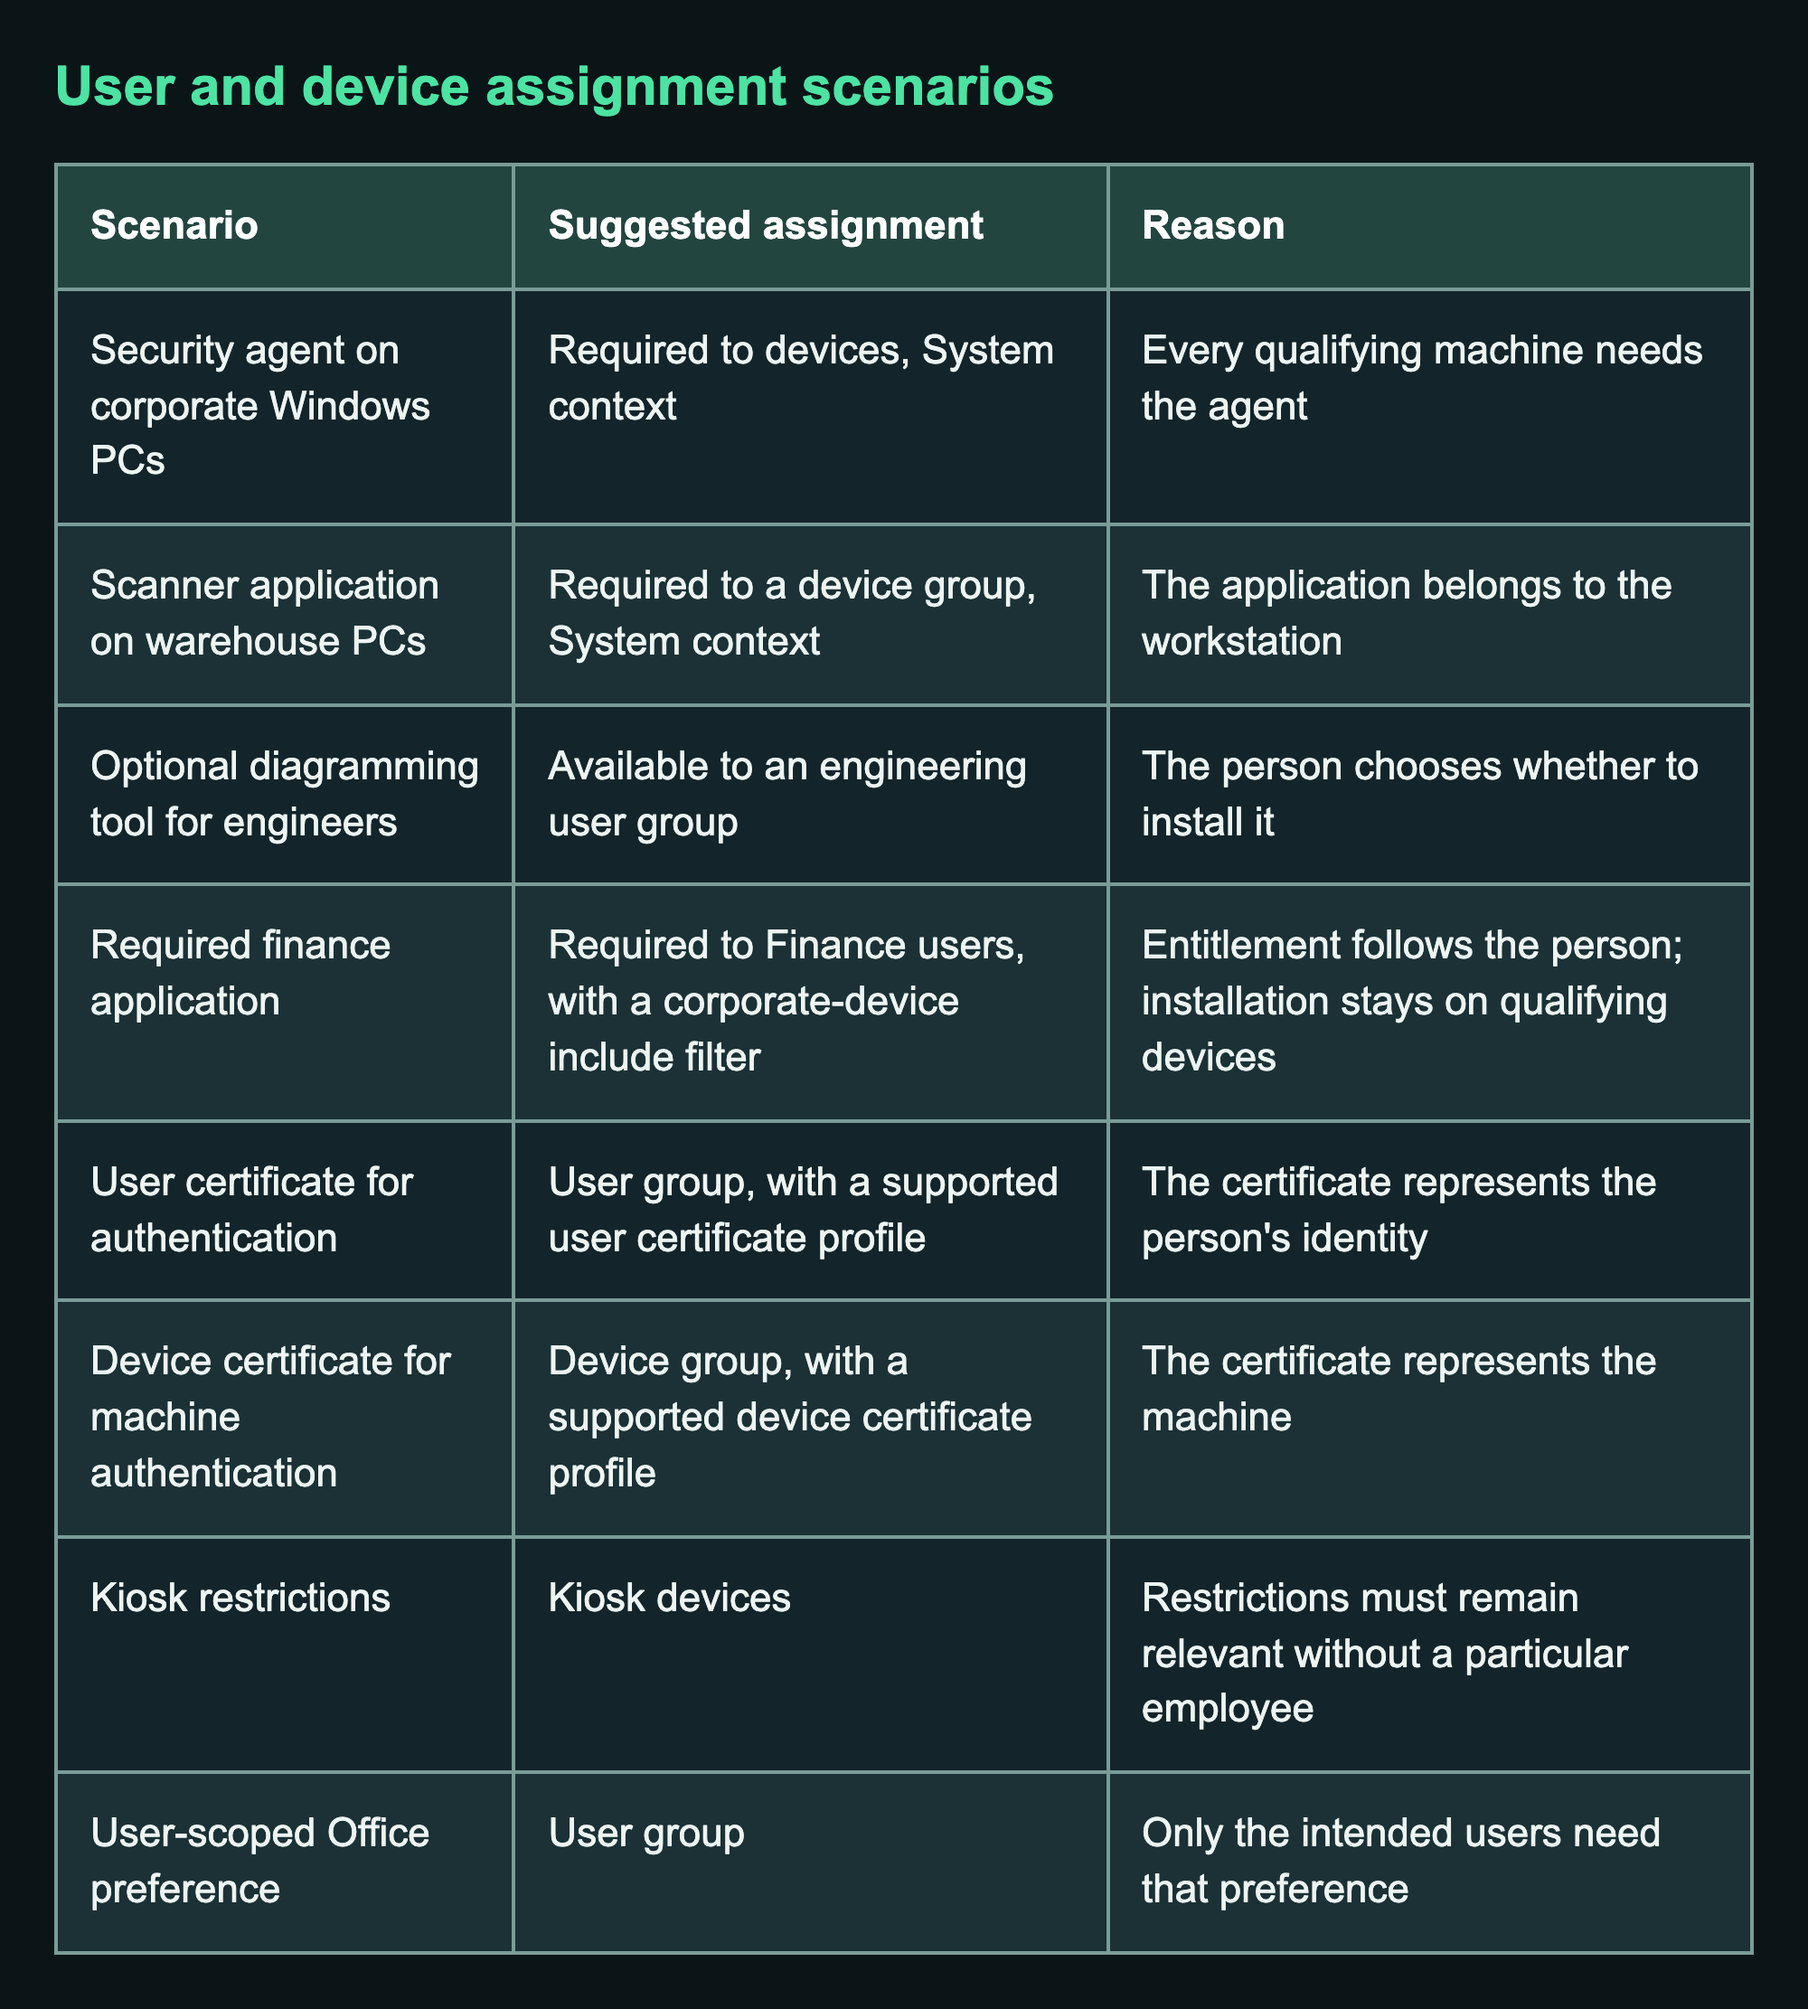
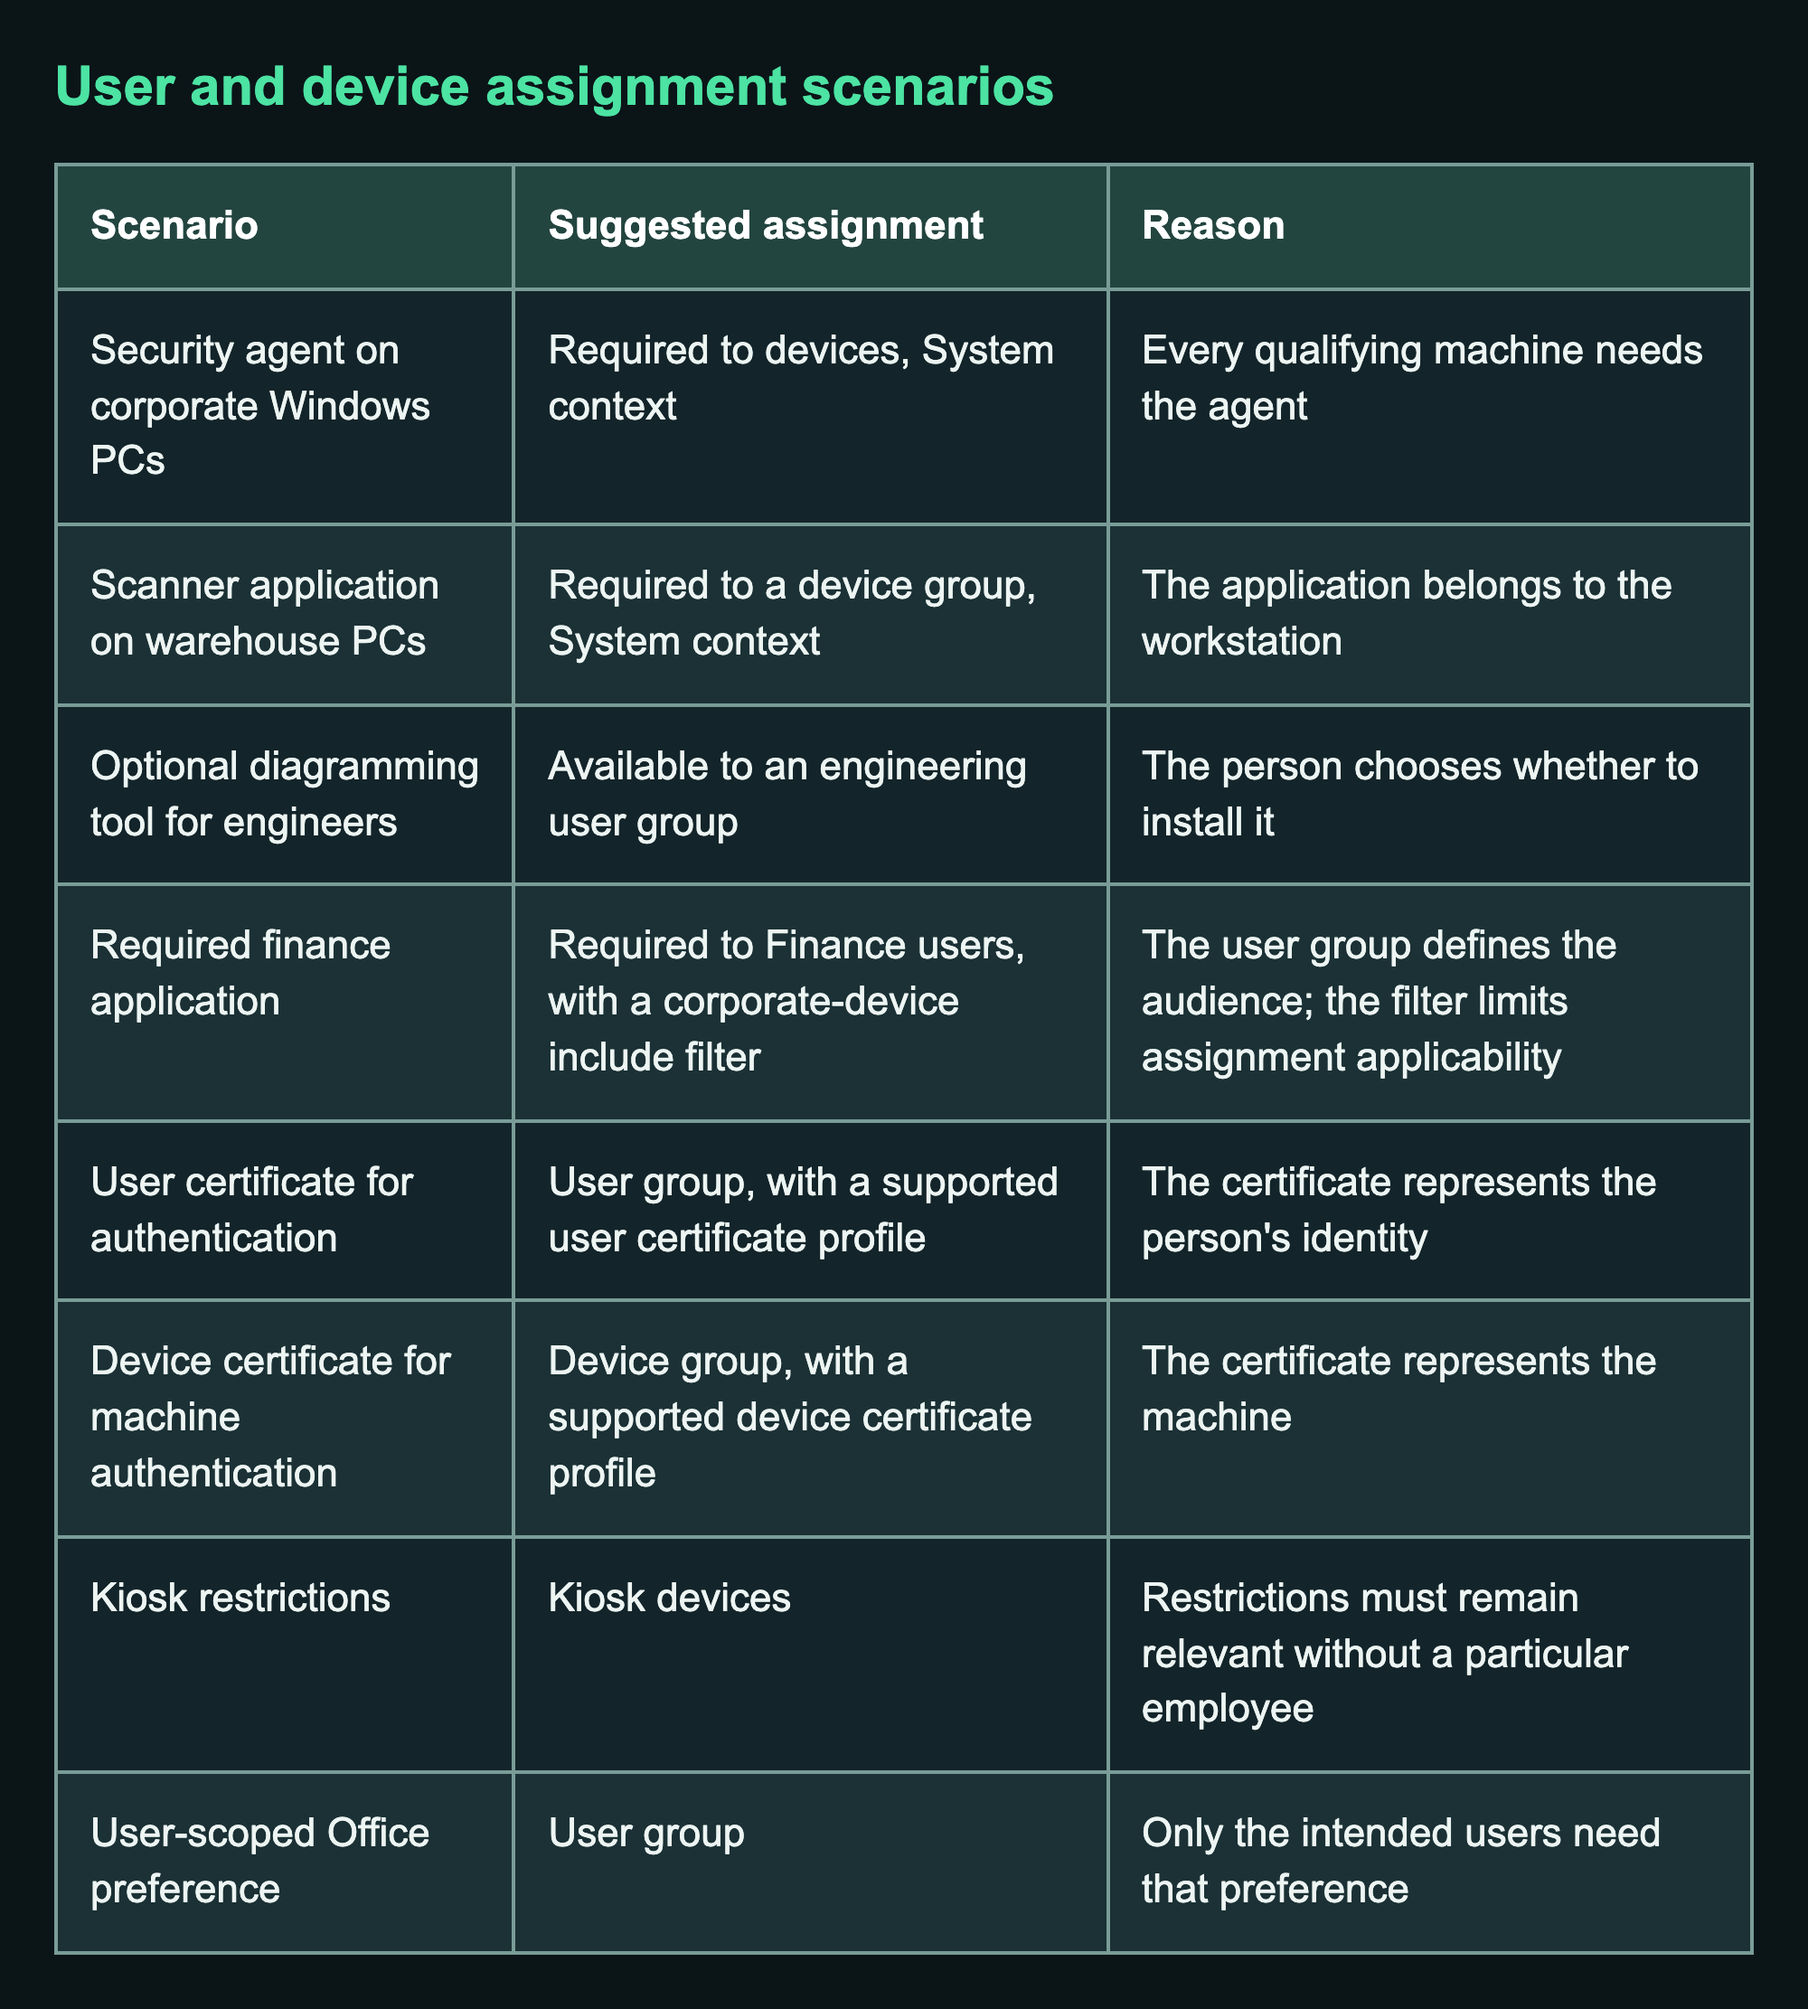
Qualify Intune assignment claims after adversarial review

Changed region(s): [[0.62, 0.4658, 0.93, 0.559]]

diff --git a/tasks/todo.md b/tasks/todo.md
@@ -1127,3 +1127,11 @@ Copilot completed a clean review at aee879c with no open findings.
 - [x] Verify image content, desktop/mobile display, and expansion; update PR #40.
 
 All five original datasets match the text alternatives. Lint, build, whitespace checks, Chrome image loading/expansion, and mobile overflow checks passed.
+
+# Adversarial assignment-post review
+
+- [x] Challenge technical claims against current primary sources.
+- [x] Correct broad claims and synchronize image/text examples.
+- [x] Verify lint, build, content parity, and push PR updates.
+
+Corrected deployment/access language, enrollment filter races, uninstall scope, certificate dependencies, reporting scope, and device preparation requirements. Independent review confirmed the core targeting/conflict examples. Lint, build, diff checks, and image/text parity passed; updated image inspected. No tenant execution was performed.
